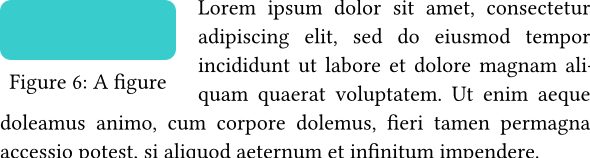
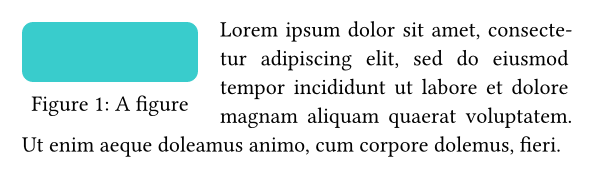
Greatly simplify logic for creating example images

diff --git a/update_readme.py b/update_readme.py
@@ -1,21 +1,38 @@
 #! /usr/bin/env python3
-from pathlib import Path
-import subprocess
 import re
+from pathlib import Path
+
+from showman.converter import Converter
 
 toml_text = Path("typst.toml").read_text()
 groups = re.match(r".*version = \"(.*?)\"", toml_text, re.DOTALL)
 assert groups
 version = groups.group(1)
 
-cmd = f"""
-showman md \
-    docs/readme.typ \
-    --output README.md \
-    --root_dir . \
-    --assets_dir assets \
-    --git_url https://www.github.com/ntjess/wrap-it/v{version}/ \
-    # --log_level DEBUG
-"""
-print(" ".join(cmd.split()))
-subprocess.run(cmd, check=True, shell=True)
+
+class WrapItConverter(Converter):
+    def _setup_build_folder(self, persist=False):
+        return (
+            self.typst_file.parent,
+            self.typst_file.parent / "make-example-images.typ",
+        )
+
+    def _get_runnable_langs(self):
+        return ["example"]
+
+    def __del__(self):
+        # No need to clean up build directory
+        pass
+
+
+WrapItConverter(
+    "docs/readme.typ",
+    assets_dir="assets",
+    root_dir=".",
+    showable_labels=["example"],
+    # log_level="DEBUG",
+).save(
+    out_path="README.md",
+    remote_url=f"https://www.github.com/ntjess/wrap-it/v{version}/",
+    force=True,
+)

diff --git a/README.md b/README.md
@@ -29,12 +29,11 @@ The easiest method is to import `wrap-it: wrap-content` from the
 ## Vanilla
 
 ``` typst
-#set par(justify: true)
 #let fig = figure(
-  rect(fill: teal, radius: 0.5em, width: 8em),
-  caption: [A figure],
+rect(fill: teal, radius: 0.5em, width: 8em),
+caption: [A figure],
 )
-#let body = lorem(40)
+#let body = lorem(30)
 #wrap-content(fig, body)
 ```
 ![Example 1](https://www.github.com/ntjess/wrap-it/raw/v0.1.1/assets/example-1.png)
@@ -43,10 +42,10 @@ The easiest method is to import `wrap-it: wrap-content` from the
 
 ``` typst
 #wrap-content(
-  fig,
-  body,
-  align: bottom + right,
-  column-gutter: 2em
+fig,
+body,
+align: bottom + right,
+column-gutter: 2em
 )
 ```
 ![Example 2](https://www.github.com/ntjess/wrap-it/raw/v0.1.1/assets/example-2.png)
@@ -57,20 +56,47 @@ The easiest way to get a uniform, highly-customizable margin is through
 boxing your image:
 
 ``` typst
-#let boxed = box(fig, inset: 0.5em)
+#let boxed = box(fig, inset: 0.25em)
 #wrap-content(boxed)[
-  #lorem(40)
+#lorem(30)
 ]
 ```
 ![Example 3](https://www.github.com/ntjess/wrap-it/raw/v0.1.1/assets/example-3.png)
 
 ## Wrapping two images in the same paragraph
 
+Note that for longer captions (as is the case in the bottom figure
+below), providing an explicit `columns` parameter is necessary to inform
+caption text of where to wrap.
+
 ``` typst
 #let fig2 = figure(
-  rect(fill: lime, radius: 0.5em),
-  caption: [Another figure],
+rect(fill: lime, radius: 0.5em),
+caption: [#lorem(10)],
 )
-#wrap-top-bottom(boxed, fig2, lorem(62))
+#wrap-top-bottom(
+bottom-kwargs: (columns: (1fr, 2fr)),
+box(fig, inset: 0.25em),
+fig2,
+lorem(50),
+)
 ```
 ![Example 4](https://www.github.com/ntjess/wrap-it/raw/v0.1.1/assets/example-4.png)
+
+## Adding a label to a wrapped figure
+
+Typst can only append labels to figures in content mode. So, when
+wrapping text around a figure that needs a label, you must first place
+your figure in a content block with its label, then wrap it:
+
+``` typst
+#show ref: it => underline(text(blue, it))
+#let fig = [
+  #figure(
+    rect(fill: red, radius: 0.5em, width: 8em),
+    caption:[Labeled]
+  )<fig:lbl>
+]
+#wrap-content(fig, [Fortunately, @fig:lbl's label can be referenced within the wrapped text. #lorem(15)])
+```
+![Example 5](https://www.github.com/ntjess/wrap-it/raw/v0.1.1/assets/example-5.png)
